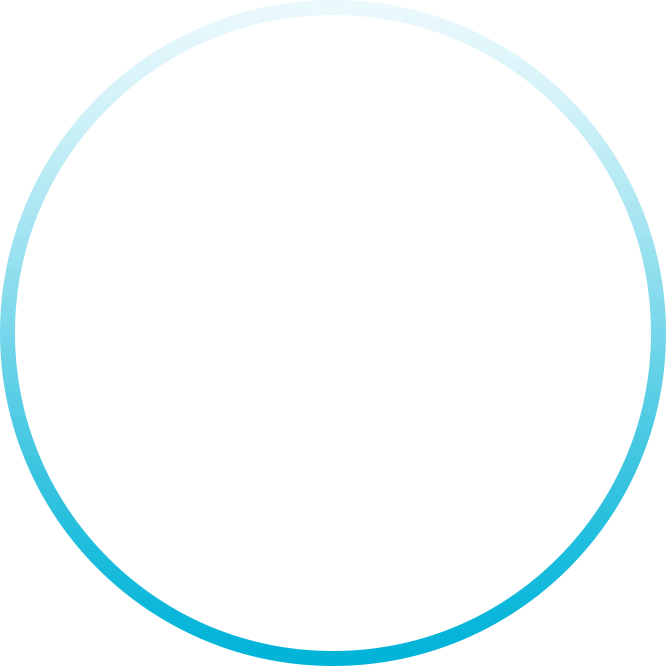
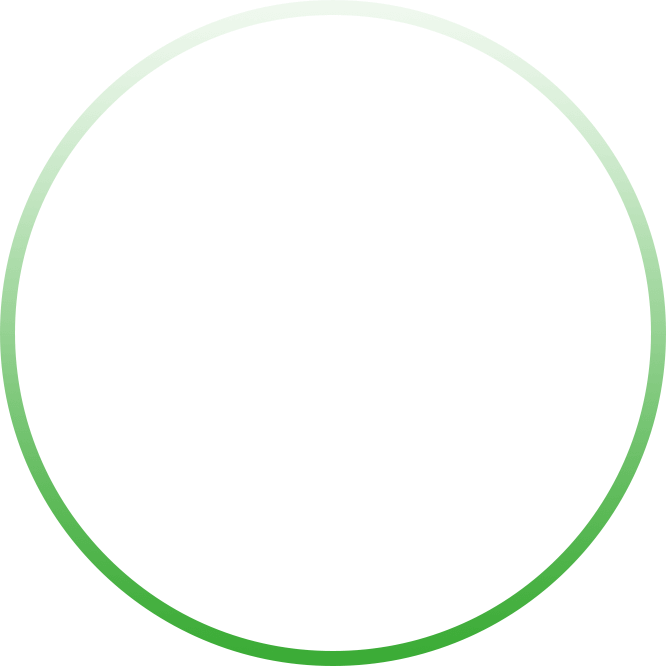
Troca de Cor

Changed region(s): [[0.0, 0.0901, 1.0, 1.0]]

diff --git a/assets/css/style.css b/assets/css/style.css
@@ -24,13 +24,13 @@
   --rich-black-fogra-29-1: hsl(210, 26%, 11%);
   --rich-black-fogra-29-2: hsl(210, 50%, 4%);
   --silver-metallic: hsl(212, 9%, 67%);
-  --coquelicot_20: #00b4d8a6;
-  --coquelicot_10: #58d8f154;
+  --coquelicot_20: #3bab35b7;
+  --coquelicot_10: #68e562ed;
   --sonic-silver: hsl(0, 0%, 47%);
   --cadet-gray: hsl(214, 15%, 62%);
   --light-gray: hsl(0, 0%, 80%);
-  --coquelicot: #00b4d8;
-  --coquelicot-force: #108fa8;
+  --coquelicot: #3aab35;
+  --coquelicot-force: #13860d;
   --gainsboro: hsl(0, 0%, 88%);
   --white_20: hsl(0, 0%, 100%, 0.2);
   --white_10: hsl(0, 0%, 100%, 0.1);
